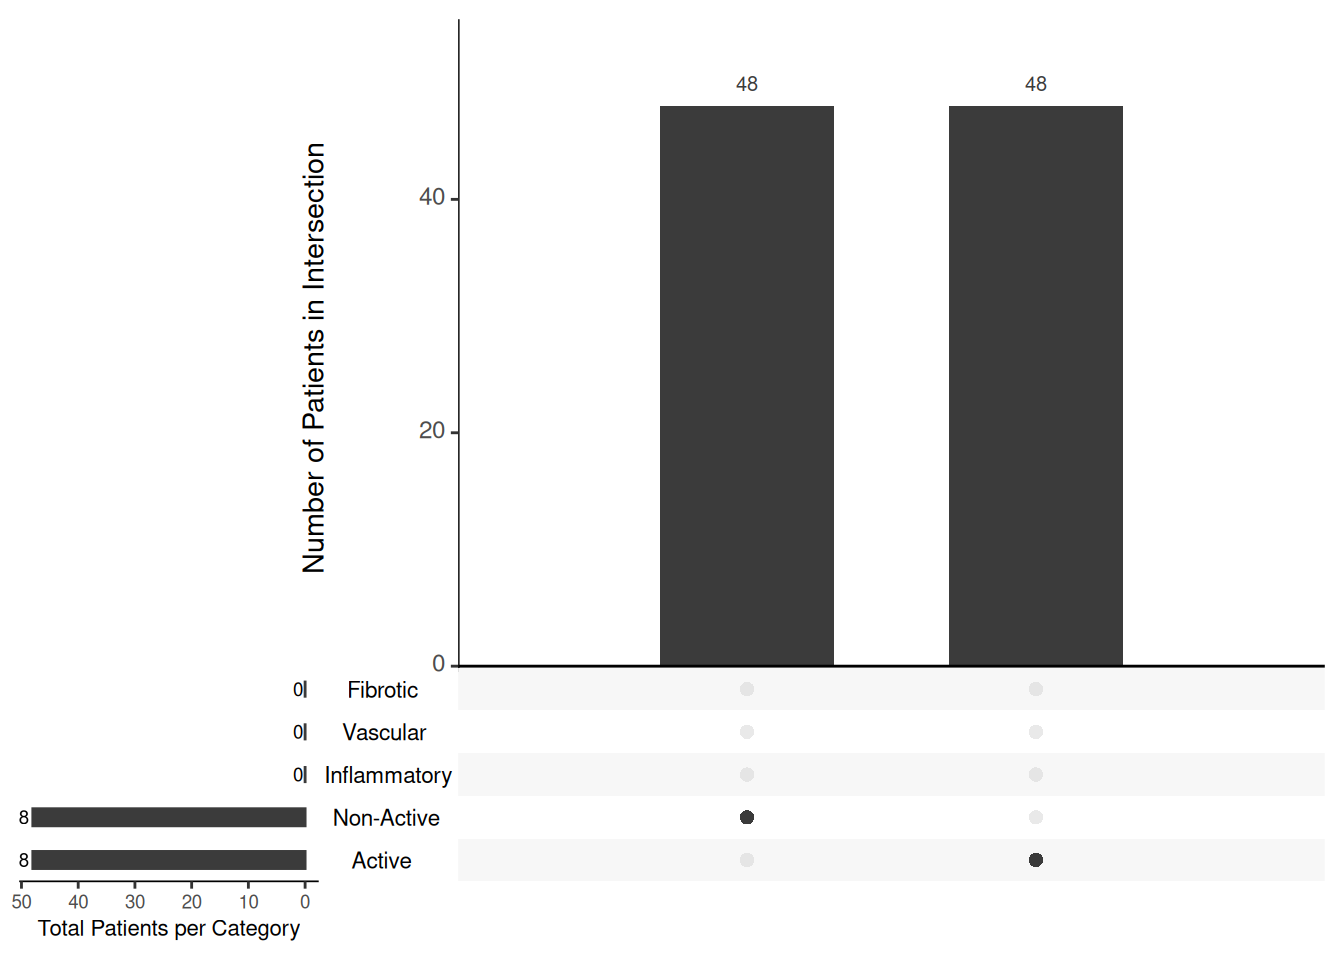
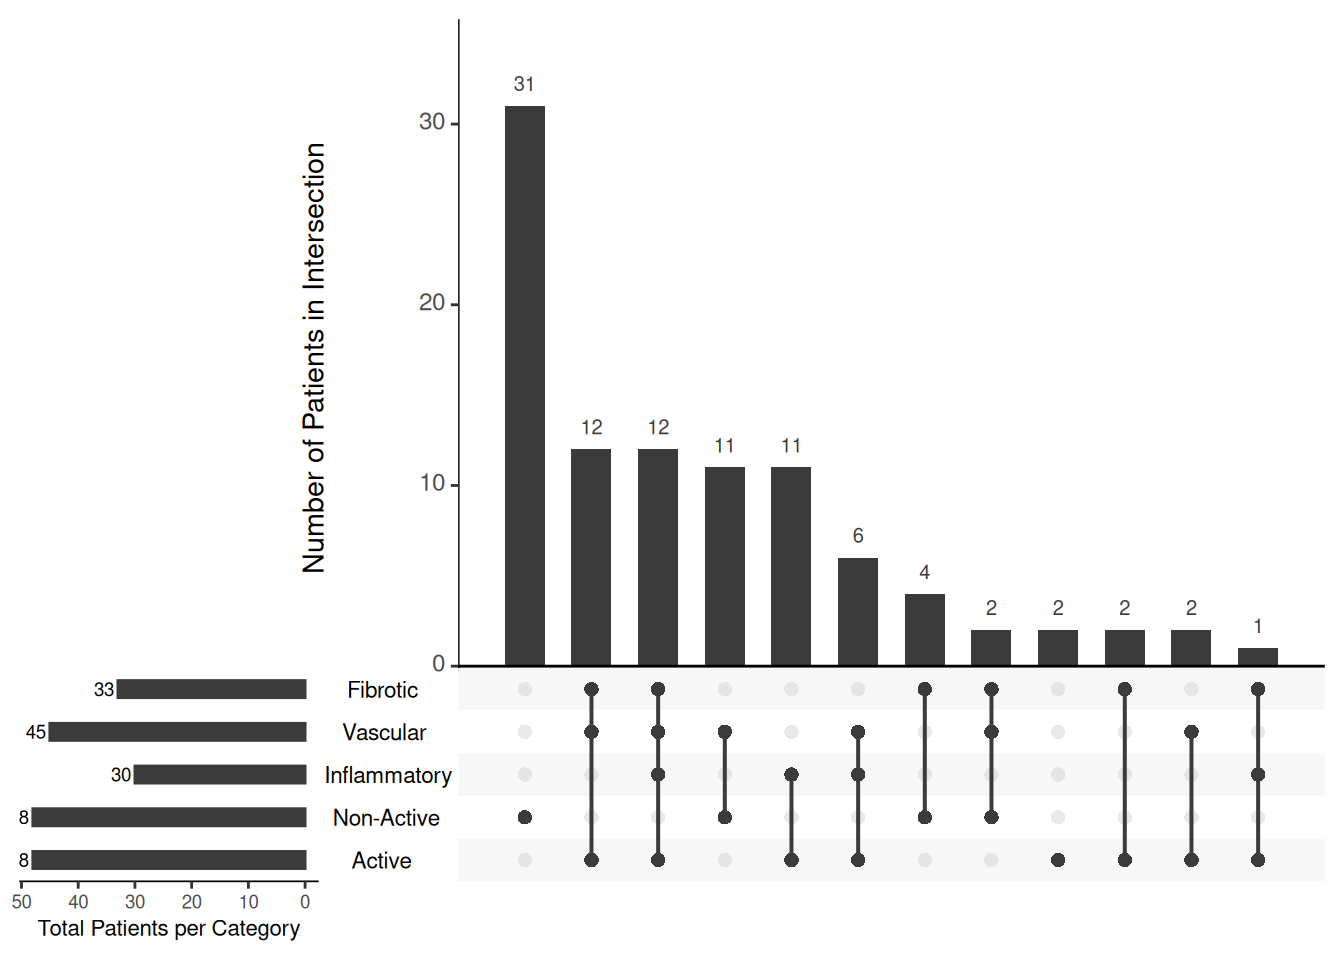
Build site.

diff --git a/docs/02_cohort_characterization.html b/docs/02_cohort_characterization.html
@@ -438,7 +438,7 @@ div.tocify {
 <h4 class="author">alexander-gysin (<a
 href="mailto:alexander.gysin@usz.ch"
 class="email">alexander.gysin@usz.ch</a>)</h4>
-<h4 class="date">01 May, 2026</h4>
+<h4 class="date">02 May, 2026</h4>
 
 </div>
 
@@ -467,7 +467,7 @@ class="glyphicon glyphicon-ok text-success" aria-hidden="true"></span>
 <div class="tab-content">
 <div id="summary" class="tab-pane fade in active">
 <p>
-<strong>Last updated:</strong> 2026-05-01
+<strong>Last updated:</strong> 2026-05-02
 </p>
 <p>
 <strong>Checks:</strong> <span
@@ -598,15 +598,15 @@ project makes it easier to run your code on other machines.</p>
 <div class="panel panel-default">
 <div class="panel-heading">
 <p class="panel-title">
-<a data-toggle="collapse" data-parent="#workflowr-checks" href="#strongRepositoryversionstrongahrefhttpsgithubcomalexandergysinSScUSZtree0e9bf631a1d232340767d3f4df2e029480be35cdtargetblank0e9bf63a">
+<a data-toggle="collapse" data-parent="#workflowr-checks" href="#strongRepositoryversionstrongahrefhttpsgithubcomalexandergysinSScUSZtreeddf1bf94035532b8c1ab9a564884da2f6bcffe9btargetblankddf1bf9a">
 <span class="glyphicon glyphicon-ok text-success"
 aria-hidden="true"></span> <strong>Repository version:</strong>
-<a href="https://github.com/alexander-gysin/SSc-USZ/tree/0e9bf631a1d232340767d3f4df2e029480be35cd" target="_blank">0e9bf63</a>
+<a href="https://github.com/alexander-gysin/SSc-USZ/tree/ddf1bf94035532b8c1ab9a564884da2f6bcffe9b" target="_blank">ddf1bf9</a>
 </a>
 </p>
 </div>
 <div
[2 lines of base64/hex data omitted]
 class="panel-collapse collapse">
 <div class="panel-body">
 <p>
@@ -616,7 +616,7 @@ reproducibility.
 </p>
 <p>
 The results in this page were generated with repository version
-<a href="https://github.com/alexander-gysin/SSc-USZ/tree/0e9bf631a1d232340767d3f4df2e029480be35cd" target="_blank">0e9bf63</a>.
+<a href="https://github.com/alexander-gysin/SSc-USZ/tree/ddf1bf94035532b8c1ab9a564884da2f6bcffe9b" target="_blank">ddf1bf9</a>.
 See the <em>Past versions</em> tab to see a history of the changes made
 to the R Markdown and HTML files.
 </p>
@@ -700,6 +700,40 @@ Message
 </tr>
 </thead>
 <tbody>
+<tr>
+<td>
+Rmd
+</td>
+<td>
+<a href="https://github.com/alexander-gysin/SSc-USZ/blob/ddf1bf94035532b8c1ab9a564884da2f6bcffe9b/analysis/02_cohort_characterization.Rmd" target="_blank">ddf1bf9</a>
+</td>
+<td>
+alexander-gysin
+</td>
+<td>
+2026-05-02
+</td>
+<td>
+wflow_publish("analysis/02_cohort_characterization.Rmd")
+</td>
+</tr>
+<tr>
+<td>
+html
+</td>
+<td>
+<a href="https://rawcdn.githack.com/alexander-gysin/SSc-USZ/6558d78c919a6766b93ae03105ac473addb15df4/docs/02_cohort_characterization.html" target="_blank">6558d78</a>
+</td>
+<td>
+alexander-gysin
+</td>
+<td>
+2026-05-01
+</td>
+<td>
+Build site.
+</td>
+</tr>
 <tr>
 <td>
 Rmd
@@ -2019,6 +2053,17 @@ Date
 <tbody>
 <tr>
 <td>
+<a href="https://github.com/alexander-gysin/SSc-USZ/blob/6558d78c919a6766b93ae03105ac473addb15df4/docs/figure/02_cohort_characterization.Rmd/print_figures-1.png" target="_blank">6558d78</a>
+</td>
+<td>
+alexander-gysin
+</td>
+<td>
+2026-05-01
+</td>
+</tr>
+<tr>
+<td>
 <a href="https://github.com/alexander-gysin/SSc-USZ/blob/2909df13c96f0adbf323c88879d6403c50cf5997/docs/figure/02_cohort_characterization.Rmd/print_figures-1.png" target="_blank">2909df1</a>
 </td>
 <td>
@@ -2077,6 +2122,17 @@ Date
 </tr>
 </thead>
 <tbody>
+<tr>
+<td>
+<a href="https://github.com/alexander-gysin/SSc-USZ/blob/6558d78c919a6766b93ae03105ac473addb15df4/docs/figure/02_cohort_characterization.Rmd/print_figures-2.png" target="_blank">6558d78</a>
+</td>
+<td>
+alexander-gysin
+</td>
+<td>
+2026-05-01
+</td>
+</tr>
 <tr>
 <td>
 <a href="https://github.com/alexander-gysin/SSc-USZ/blob/e9897d3a7ebe4f6239bfce87e57a5a472ff42cf5/docs/figure/02_cohort_characterization.Rmd/print_figures-2.png" target="_blank">e9897d3</a>
@@ -2176,6 +2232,17 @@ Date
 <tbody>
 <tr>
 <td>
+<a href="https://github.com/alexander-gysin/SSc-USZ/blob/6558d78c919a6766b93ae03105ac473addb15df4/docs/figure/02_cohort_characterization.Rmd/print_individual_plots-1.png" target="_blank">6558d78</a>
+</td>
+<td>
+alexander-gysin
+</td>
+<td>
+2026-05-01
+</td>
+</tr>
+<tr>
+<td>
 <a href="https://github.com/alexander-gysin/SSc-USZ/blob/2909df13c96f0adbf323c88879d6403c50cf5997/docs/figure/02_cohort_characterization.Rmd/print_individual_plots-1.png" target="_blank">2909df1</a>
 </td>
 <td>
@@ -2237,6 +2304,17 @@ Date
 </tr>
 </thead>
 <tbody>
+<tr>
+<td>
+<a href="https://github.com/alexander-gysin/SSc-USZ/blob/6558d78c919a6766b93ae03105ac473addb15df4/docs/figure/02_cohort_characterization.Rmd/print_individual_plots-2.png" target="_blank">6558d78</a>
+</td>
+<td>
+alexander-gysin
+</td>
+<td>
+2026-05-01
+</td>
+</tr>
 <tr>
 <td>
 <a href="https://github.com/alexander-gysin/SSc-USZ/blob/2909df13c96f0adbf323c88879d6403c50cf5997/docs/figure/02_cohort_characterization.Rmd/print_individual_plots-2.png" target="_blank">2909df1</a>
@@ -2302,6 +2380,17 @@ Date
 <tbody>
 <tr>
 <td>
+<a href="https://github.com/alexander-gysin/SSc-USZ/blob/6558d78c919a6766b93ae03105ac473addb15df4/docs/figure/02_cohort_characterization.Rmd/print_individual_plots-3.png" target="_blank">6558d78</a>
+</td>
+<td>
+alexander-gysin
+</td>
+<td>
+2026-05-01
+</td>
+</tr>
+<tr>
+<td>
 <a href="https://github.com/alexander-gysin/SSc-USZ/blob/2909df13c96f0adbf323c88879d6403c50cf5997/docs/figure/02_cohort_characterization.Rmd/print_individual_plots-3.png" target="_blank">2909df1</a>
 </td>
 <td>
@@ -2365,6 +2454,17 @@ Date
 <tbody>
 <tr>
 <td>
+<a href="https://github.com/alexander-gysin/SSc-USZ/blob/6558d78c919a6766b93ae03105ac473addb15df4/docs/figure/02_cohort_characterization.Rmd/print_individual_plots-4.png" target="_blank">6558d78</a>
+</td>
+<td>
+alexander-gysin
+</td>
+<td>
+2026-05-01
+</td>
+</tr>
+<tr>
+<td>
 <a href="https://github.com/alexander-gysin/SSc-USZ/blob/2909df13c96f0adbf323c88879d6403c50cf5997/docs/figure/02_cohort_characterization.Rmd/print_individual_plots-4.png" target="_blank">2909df1</a>
 </td>
 <td>
@@ -2426,6 +2526,17 @@ Date
 </tr>
 </thead>
 <tbody>
+<tr>
+<td>
+<a href="https://github.com/alexander-gysin/SSc-USZ/blob/6558d78c919a6766b93ae03105ac473addb15df4/docs/figure/02_cohort_characterization.Rmd/print_individual_plots-5.png" target="_blank">6558d78</a>
+</td>
+<td>
+alexander-gysin
+</td>
+<td>
+2026-05-01
+</td>
+</tr>
 <tr>
 <td>
 <a href="https://github.com/alexander-gysin/SSc-USZ/blob/2909df13c96f0adbf323c88879d6403c50cf5997/docs/figure/02_cohort_characterization.Rmd/print_individual_plots-5.png" target="_blank">2909df1</a>
@@ -2715,6 +2826,17 @@ Date
 <tbody>
 <tr>
 <td>
+<a href="https://github.com/alexander-gysin/SSc-USZ/blob/6558d78c919a6766b93ae03105ac473addb15df4/docs/figure/02_cohort_characterization.Rmd/custom_correlation_heatmaps-1.png" target="_blank">6558d78</a>
+</td>
+<td>
+alexander-gysin
+</td>
+<td>
+2026-05-01
+</td>
+</tr>
+<tr>
+<td>
 <a href="https://github.com/alexander-gysin/SSc-USZ/blob/e2e924096ec9c8c388bb401b824303f78a17c946/docs/figure/02_cohort_characterization.Rmd/custom_correlation_heatmaps-1.png" target="_blank">e2e9240</a>
 </td>
 <td>
@@ -2756,6 +2878,17 @@ Date
 <tbody>
 <tr>
 <td>
+<a href="https://github.com/alexander-gysin/SSc-USZ/blob/6558d78c919a6766b93ae03105ac473addb15df4/docs/figure/02_cohort_characterization.Rmd/custom_correlation_heatmaps-2.png" target="_blank">6558d78</a>
+</td>
+<td>
+alexander-gysin
+</td>
+<td>
+2026-05-01
+</td>
+</tr>
+<tr>
+<td>
 <a href="https://github.com/alexander-gysin/SSc-USZ/blob/e2e924096ec9c8c388bb401b824303f78a17c946/docs/figure/02_cohort_characterization.Rmd/custom_correlation_heatmaps-2.png" target="_blank">e2e9240</a>
 </td>
 <td>
@@ -2795,6 +2928,17 @@ Date
 </tr>
 </thead>
 <tbody>
+<tr>
+<td>
+<a href="https://github.com/alexander-gysin/SSc-USZ/blob/6558d78c919a6766b93ae03105ac473addb15df4/docs/figure/02_cohort_characterization.Rmd/custom_correlation_heatmaps-3.png" target="_blank">6558d78</a>
+</td>
+<td>
+alexander-gysin
+</td>
+<td>
+2026-05-01
+</td>
+</tr>
 <tr>
 <td>
 <a href="https://github.com/alexander-gysin/SSc-USZ/blob/5d831d269c14e098bab01f31a688c5e1404f4f80/docs/figure/02_cohort_characterization.Rmd/custom_correlation_heatmaps-3.png" target="_blank">5d831d2</a>
@@ -3211,10 +3355,10 @@ if (!dir.exists(upset_dir)) dir.create(upset_dir, recursive = TRUE)
 for (u_id in names(upset_configs)) {
   conf &lt;- upset_configs[[u_id]]
   
-  res &lt;- generate_upset_plot(conf, master_spine)
+  # FIX: Feed the engine the numeric spine so &#39;target = 1&#39; successfully matches!
+  res &lt;- generate_upset_plot(conf, numeric_spine)
   
   if (res$status == &quot;success&quot;) {
-    # Added \n\n to front!
     cat(sprintf(&quot;\n\n### %s\n\n&quot;, conf$title))
     
     # Print for HTML / Interactive Viewer
@@ -3258,6 +3402,17 @@ Date
 </tr>
 </thead>
 <tbody>
+<tr>
+<td>
+<a href="https://github.com/alexander-gysin/SSc-USZ/blob/6558d78c919a6766b93ae03105ac473addb15df4/docs/figure/02_cohort_characterization.Rmd/upset_execution-1.png" target="_blank">6558d78</a>
+</td>
+<td>
+alexander-gysin
+</td>
+<td>
+2026-05-01
+</td>
+</tr>
 <tr>
 <td>
 <a href="https://github.com/alexander-gysin/SSc-USZ/blob/e2e924096ec9c8c388bb401b824303f78a17c946/docs/figure/02_cohort_characterization.Rmd/upset_execution-1.png" target="_blank">e2e9240</a>
